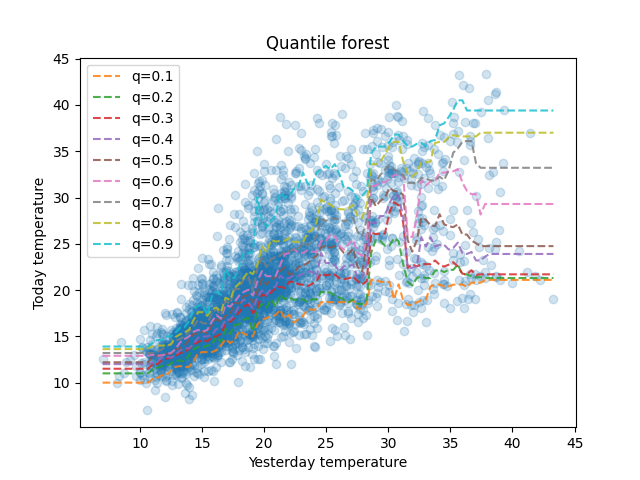
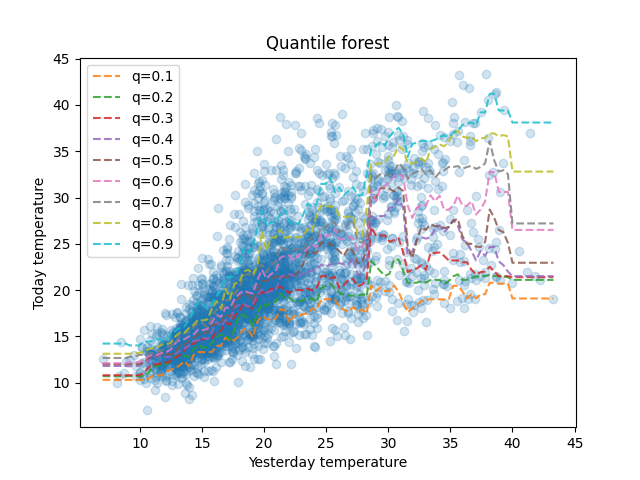
clean kqr_tutorial.py

Changed region(s): [[0.1562, 0.1875, 0.875, 0.8125]]

diff --git a/kqr_tutorial.py b/kqr_tutorial.py
@@ -1,3 +1,5 @@
+# script showing the workflow of KQR
+# actual use of KQR starts at line 177
 from kernel_quantile_regression.kqr import KQR
 import matplotlib.pyplot as plt
 import numpy as np
@@ -192,9 +194,9 @@ if __name__=="__main__":
 
     param_grid_krn = dict(
     C=[0.1,1, 5, 10],
-    gamma=[1e-1,1e-2,1,5,10,20]
+    gamma=[1/np.sqrt(2*1e-6),1/np.sqrt(2*1e-4), 1/np.sqrt(2*1e-2)]
     )
-    krn_blueprint=KQR(alpha=0.5, kernel_type=ktype)
+    krn_blueprint=KQR(alpha=0.5, kernel_type=ktype, var=1)
     best_hyperparameters_krn=HalvingRandomSearchCV(
             krn_blueprint,
             param_grid_krn,
@@ -206,7 +208,7 @@ if __name__=="__main__":
     for i,q in enumerate(tqdm(quantiles)):
 
         # fit data for specific quantile
-        qr_krn_models+=[KQR(alpha=q, kernel_type=ktype, **best_hyperparameters_krn).fit(X_train, y_train)]
+        qr_krn_models+=[KQR(alpha=q, kernel_type=ktype, **best_hyperparameters_krn,var=1).fit(X_train, y_train)]
         
         # list of prediction for each quantile
         y_test_pred_qr_krn+=[qr_krn_models[i].predict(X_test)]
@@ -244,16 +246,3 @@ if __name__=="__main__":
     # mae_scores.loc[0,"Gbm qr"]=mean_absolute_error(y_test, y_test_pred_qr_gbr[5])
     # mae_scores.loc[0,"Quantile forest"]=mean_absolute_error(y_test, y_test_pred_qr_rfr[5])
     # mae_scores.loc[0,"Kernel qr"]=mean_absolute_error(y_test, y_test_pred_qr_krn[5])
-
-    
-#    Linear qr     Gbm qr      Quantile forest  Kernel qr rbf gaussian   Laplacian   Rbf gaussian x laplacian
-#    11.278895     10.317612   10.370558        10.031708                10.056884   10.15074       
-
-#    Cosine       Linear       Polynomial       Sigmoid                 Chi Squared  Matern     
-#    16.253973    10.463867    11.238393        16.253973               10.023732       10.021369  
-
-#    Periodic     Rbf gaussian x laplacian with Product object from sklearn.gaussian_process.kernels
-#    15.946272    10.15074
-
-
-# notice, using product or the * operator works exactly the same
